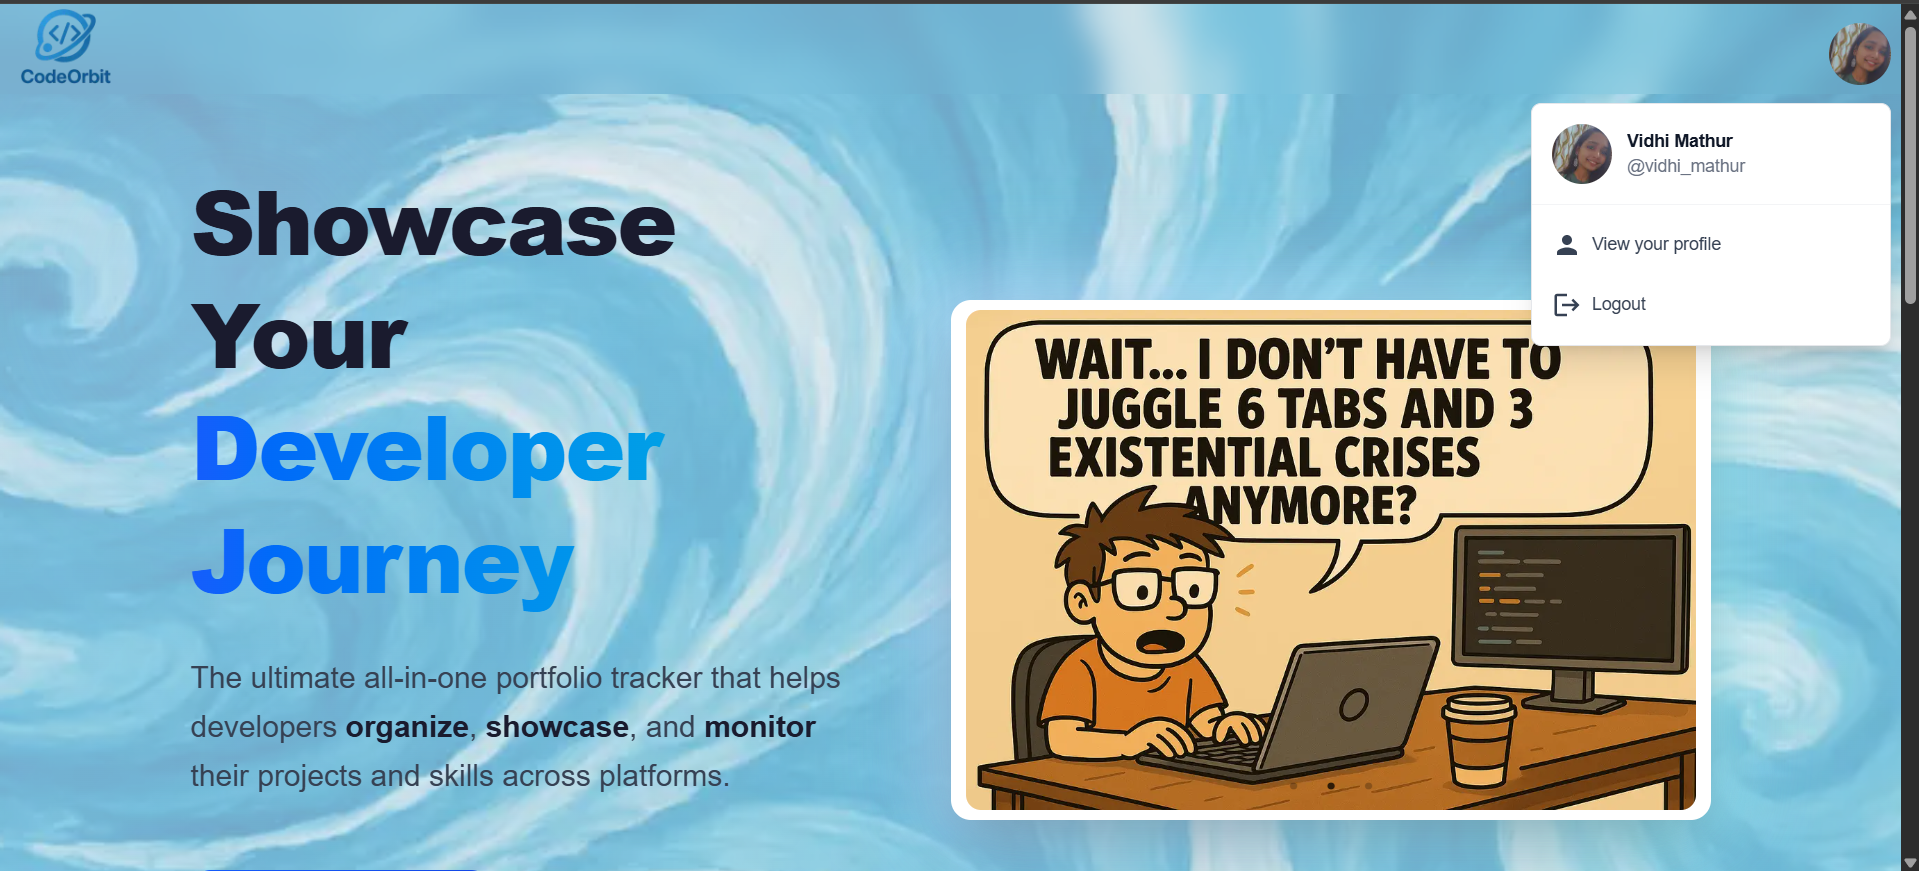
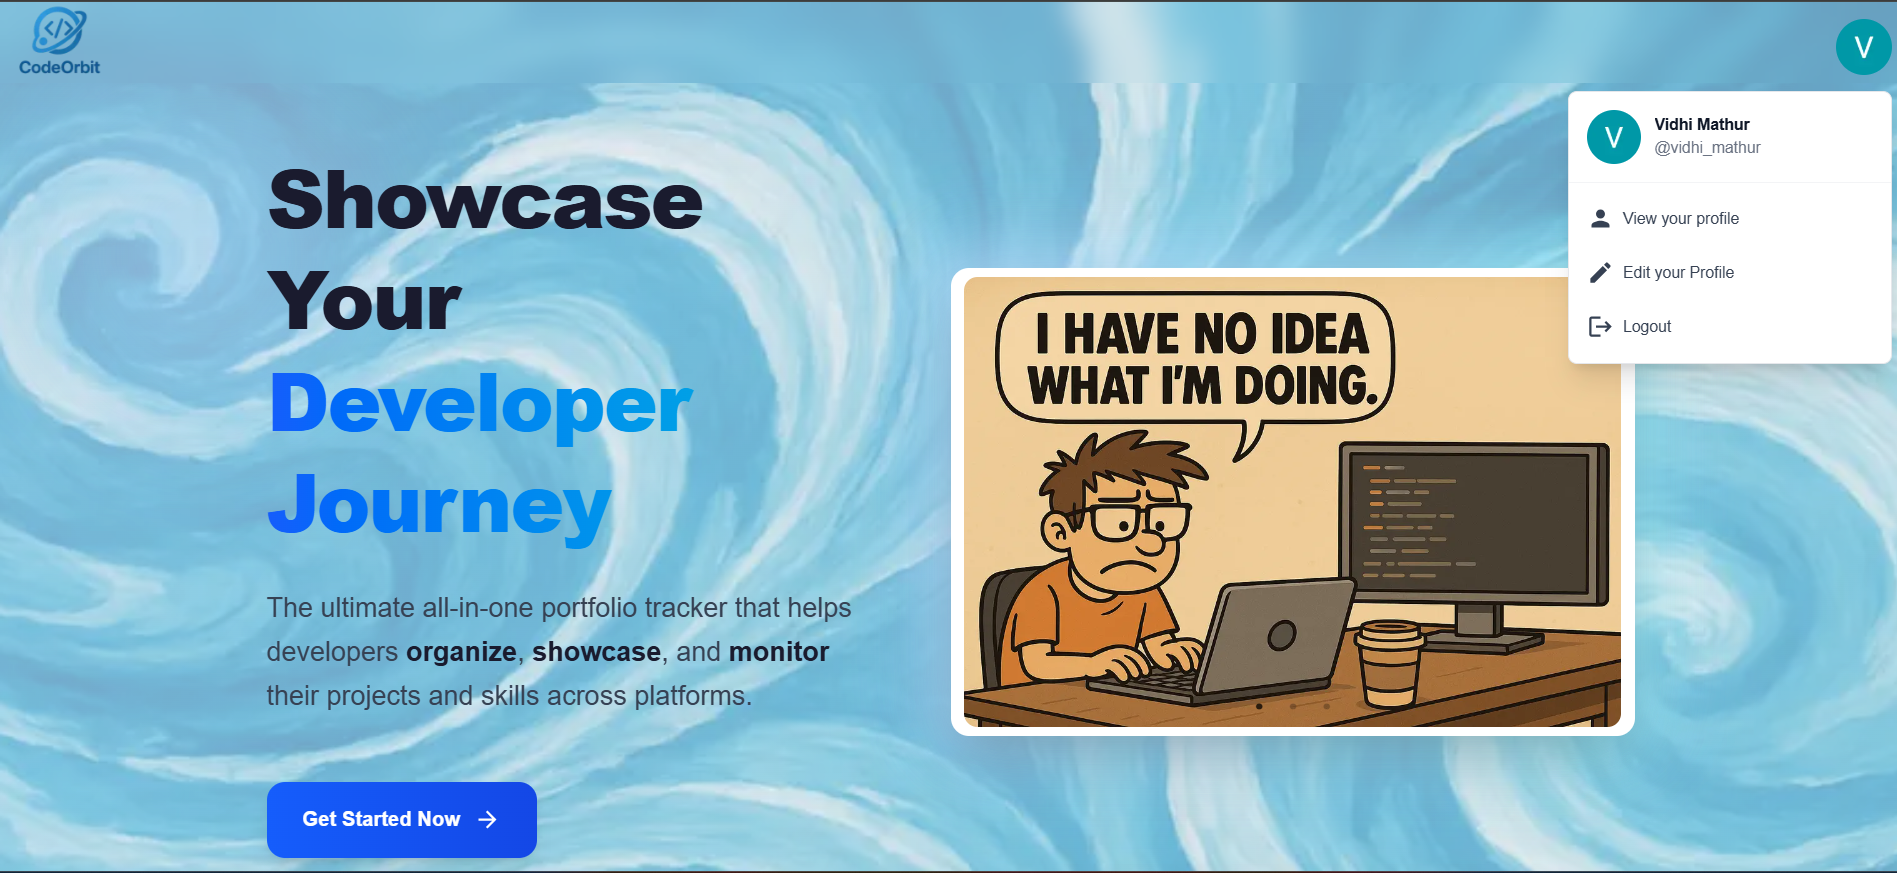
Updated skills and details

diff --git a/src/components/UI/Skills.js b/src/components/UI/Skills.js
@@ -3,15 +3,15 @@ import CSS from "../../assets/skills/CSS.svg"
 import Javascript from "../../assets/skills/Javascript.svg"
 import Bootstrap from "../../assets/skills/BootStrap.svg"
 import Java from "../../assets/skills/Java.svg"
-import ReactJS from "../../assets/skills/ReactJS.svg"
-import ReactRouterDom from "../../assets/skills/React-Router-Dom.svg"
+import ReactJs from "../../assets/skills/ReactJs.svg"
+import ReactRouterDom from "../../assets/skills/ReactRouterDom.svg"
 import Redux from "../../assets/skills/Redux.svg"
-import NextJS from "../../assets/skills/NextJS.svg"
-import MaterialUI from "../../assets/skills/Material-UI.svg"
-import TailwindCSS from "../../assets/skills/Tailwind-CSS.svg"
-import FramerMotion from "../../assets/skills/Framer-Motion.svg"
-import NodeJS from "../../assets/skills/NodeJS.svg"
-import ExpressJS from "../../assets/skills/ExpressJS.svg"
+import NextJs from "../../assets/skills/NextJs.svg"
+import MaterialUI from "../../assets/skills/MaterialUI.svg"
+import TailwindCSS from "../../assets/skills/TailwindCSS.svg"
+import FramerMotion from "../../assets/skills/FramerMotion.svg"
+import NodeJs from "../../assets/skills/NodeJs.svg"
+import ExpressJs from "../../assets/skills/ExpressJs.svg"
 import SocketIO from "../../assets/skills/SocketIO.svg"
 import MongoDB from "../../assets/skills/MongoDB.svg"
 import Git from "../../assets/skills/Git.svg"
@@ -22,47 +22,79 @@ import Prisma from "../../assets/skills/Prisma.svg"
 import Mongoose from "../../assets/skills/Mongoose.svg"
 import Shadcn from "../../assets/skills/Shadcn.svg"
 import Typescript from "../../assets/skills/Typescript.svg"
+import TanstackQuery from "../../assets/skills/TanstackQuery.svg"
+import Redis from "../../assets/skills/Redis.svg"
+import NextAuth from "../../assets/skills/NextAuth.svg"
+import Zod from "../../assets/skills/Zod.svg"
+import RestApi from "../../assets/skills/RestApi.svg"
+import GraphQL from "../../assets/skills/GraphQL.svg"
+import Jest from "../../assets/skills/Jest.svg"
+import RTL from "../../assets/skills/RTL.svg"
+import Supertest from "../../assets/skills/Supertest.svg"
+import Cypress from "../../assets/skills/Cypress.svg"
+import EC2 from "../../assets/skills/EC2.svg"
+import S3 from "../../assets/skills/S3.svg"
+import GitHubActions from "../../assets/skills/GitHubActions.svg"
+import Kubernetes from "../../assets/skills/Kubernetes.svg"
 import { motion } from "framer-motion"
 import { useInView } from "react-intersection-observer"
 import { elasticVariants } from "../../styles/specialEffects"
 
-const langauageAndScriptingSkills = [
+const langauageSkills = [
+    { name: 'TypeScript', icon: Typescript},
+    { name: 'JavaScript', icon: Javascript},
+    { name: 'Java', icon: Java},
     { name: 'HTML', icon: HTML },
     { name: 'CSS', icon: CSS},
-    { name: 'Javascript', icon: Javascript},
-    { name: 'Typecript', icon: Typescript},
-    { name: 'Java', icon: Java},
 ]
 
-const libraryAndFrameworkSkills = [
-    { name: 'Bootstrap', icon: Bootstrap},
-    { name: 'ReactJS', icon: ReactJS },
-    { name: 'React Router Dom', icon: ReactRouterDom },
+const frameworkAndLibrarySkills = [
+    { name: 'Next.js', icon: NextJs },
+    { name: 'React.js', icon: ReactJs },
+    { name: "TanStack Query", icon: TanstackQuery },
+    { name: 'Zod', icon: Zod },
+    { name: 'Tailwind CSS', icon: TailwindCSS },
+    { name: 'Shadcn', icon: Shadcn },
+    { name: 'Material UI', icon: MaterialUI },
     { name: 'Redux', icon: Redux },
-    { name: 'NextJS', icon: NextJS },
-    { name: 'Material UI', icon: MaterialUI},
-    { name: 'Shadcn', icon: Shadcn},
-    { name: 'Tailwind CSS', icon: TailwindCSS},
-    { name: 'Framer Motion', icon: FramerMotion },
+    { name: 'React Router DOM', icon: ReactRouterDom },
+    { name: 'Bootstrap', icon: Bootstrap },
+    { name: 'Framer Motion', icon: FramerMotion }
 ]
 
- const backendSkills = [
-    { name: 'NodeJS', icon: NodeJS},
-    { name: 'ExpressJS', icon: ExpressJS },
-    { name: 'Socket.io', icon: SocketIO },
+const backendSkills = [
+    { name: 'Node.js', icon: NodeJs },
+    { name: 'Express.js', icon: ExpressJs },
+    { name: 'REST APIs', icon: RestApi },
+    { name: 'NextAuth', icon: NextAuth },
+    { name: 'GraphQL', icon: GraphQL },
+    { name: 'Socket.io', icon: SocketIO }
 ]
 
- const databaseSkills = [
-    { name: 'MongoDB', icon: MongoDB},
-    { name: 'Mongoose', icon: Mongoose},
-    { name: 'PostgreSQL', icon: PostgreSQL},
-    { name: 'Prisma', icon: Prisma}
+const databaseSkills = [
+    { name: 'MongoDB', icon: MongoDB },
+    { name: 'Mongoose', icon: Mongoose },
+    { name: 'PostgreSQL', icon: PostgreSQL },
+    { name: 'Prisma', icon: Prisma },
+    { name: 'Redis', icon: Redis },
 ]
 
- const developerToolSkills = [
+const testingSkills = [
+  { name: "Jest", icon: Jest },
+  { name: "React Testing Library", icon: RTL },
+  { name: "Supertest", icon: Supertest },
+  { name: "Cypress", icon: Cypress }
+]
+
+
+const toolsAndDevOpsSkills = [
     { name: 'Version Control', icon: Git},
     { name: 'Postman', icon: Postman},
-    { name: 'Docker', icon: Docker}
+    { name: 'Docker', icon: Docker},
+    { name: "AWS (EC2)", icon: EC2 },
+    { name: "AWS (S3)", icon: S3 },
+    { name: "GitHub Actions", icon: GitHubActions },
+    { name: "Kubernetes (Basics)", icon: Kubernetes }
 ]
 
 export const Skills = () => {
@@ -70,11 +102,12 @@ export const Skills = () => {
         <div className="container mx-auto text-left">
         <h1 className="text-4xl sm:text-5xl md:text-6xl lg:text-7xl text-white font-semibold lg:mt-64 mt-40">Skills</h1>
             <div className="space-y-8 mt-8">
-                    <SkillSection title="Languages and Scripting" skills={langauageAndScriptingSkills} />
-                    <SkillSection title="Libraries and Frameworks" skills={libraryAndFrameworkSkills} />
+                    <SkillSection title="Languages" skills={langauageSkills} />
+                    <SkillSection title="Frameworks & Libraries" skills={frameworkAndLibrarySkills} />
                     <SkillSection title="Backend" skills={backendSkills} />
                     <SkillSection title="Databases" skills={databaseSkills} />
-                    <SkillSection title="Developer Tools" skills={developerToolSkills} />
+                    <SkillSection title="Testing" skills={testingSkills} />
+                    <SkillSection title="Tools & DevOps" skills={toolsAndDevOpsSkills} />
             </div>
         </div>
     )
@@ -87,10 +120,10 @@ const SkillSection = ({title, skills}) => {
     })
     return (
         <motion.div ref={ref}>
-        <p className="text-2xl sm:text:3xl md:text-4xl text-[#bdaee3] font-semibold mb-5 ">{title}</p>
+        <p className="text-2xl sm:text-3xl md:text-4xl text-[#bdaee3] font-semibold mb-5 ">{title}</p>
             <motion.div className="flex flex-wrap gap-5">
                 {skills.map((skill, index) => (
-                    <motion.span key={skill.name} className="bg-white text-xl font-semibold px-6 py-1.5 rounded flex items-center justify-center gap-2" initial="hidden" animate={inView? "visible": "hidden"} index={index} variants={elasticVariants} whileHover="hover"><img src={skill.icon} alt="alt" className="w-10 h-10 object-contain"/>{skill.name}</motion.span>
+                    <motion.span key={skill.name} className="bg-white text-xl font-semibold px-6 py-1.5 rounded flex items-center justify-center gap-2" initial="hidden" animate={inView? "visible": "hidden"} index={index} variants={elasticVariants} whileHover="hover"><img src={skill.icon} alt={skill.name} className="w-10 h-10 object-contain"/>{skill.name}</motion.span>
                 ))}
             </motion.div>
         </motion.div>

diff --git a/src/components/UI/ProjectInfo.js b/src/components/UI/ProjectInfo.js
@@ -11,19 +11,19 @@ import MyPlaceImg from "../../assets/projects/MyPlaces.png"
 const projectList = [
     {
         name: "CodeOrbit",
-        intro: "A developer portfolio tracker that visualizes coding activity and profiles",
-        techUsed: "Next.js, TypeScript, MongoDB, Tailwind CSS, NextAuth",
+        intro: "Developer analytics platform aggregating coding activity from GitHub, LeetCode, and Codeforces",
+        techUsed: "Next.js, TypeScript, MongoDB, TanStack Query, Redis (Upstash)",
         image: CodeOrbitImg,
     },
     {
-        name: "Eatwave",
-        intro: "A full-fledged food delivery application",
+        name: "EatWave",
+        intro: "Full-fledged food delivery platform with authentication, payments, and real-time order tracking",
         techUsed: "React.js, Node.js, Express.js, MongoDB, Tailwind CSS",
         image: EatWaveImg
     },
     {
         name: "MyPlaces",
-        intro: "Mock social media application to share geolocation based pictures",
+        intro: "Location-based photo sharing platform with geolocation and secure authentication",
         techUsed: "React.js, Node.js, Express.js, MongoDB, Tailwind CSS",
         image: MyPlaceImg
     }
@@ -59,7 +59,7 @@ export const ProjectInfo = () => {
             <h1 className="text-3xl sm:text-4xl md:text-5xl lg:text-6xl text-white font-semibold mt-12 sm:mt-24 md:mt-36 mb-8 sm:mb-16 md:mb-24">My Projects</h1>
             <div className="flex flex-col lg:flex-row justify-between items-start space-y-8 lg:space-y-0 lg:space-x-8">
                 <AnimatePresence mode="wait">
-                    <motion.div key={projectList[currIdx].name} initial={flipVariants.initial} animate={flipVariants.animate} exit={flipVariants.exit} transition={flipVariants.transition} style={flipVariants.style} className="bg-white dark:bg-[#1e1e1e] rounded-lg overflow-hidden shadow-lg w-full lg:w-6/12 h-auto lg:h-96" onClick={nextProjectHandler}>
+                    <motion.div key={projectList[currIdx].name} initial={flipVariants.initial} animate={flipVariants.animate} exit={flipVariants.exit} transition={flipVariants.transition} style={flipVariants.style} className="bg-white dark:bg-[#1e1e1e] rounded-lg overflow-hidden shadow-lg w-full lg:w-6/12 h-auto lg:h-[436px]" onClick={nextProjectHandler}>
                         <div className="bg-[#f0f0f0] dark:bg-[#323233] px-4 py-2 flex items-center justify-between">
                             <span className="text-[#333] dark:text-[#cccccc] font font-medium">{projectList[currIdx].name}.js</span>
                             <div className="flex space-x-2">
@@ -69,7 +69,7 @@ export const ProjectInfo = () => {
                             </div>
                         </div>
                         <div className="p-6 font-mono text-sm">
-                            <p className="text-green-800 dark:text-green-300 mb-2">//Click to see next, more details in "/projects"!</p>
+                            <p className="text-green-800 dark:text-green-300 mb-2">{`// Click to see next project — full details in "/projects"`}</p>
                             <p className="text-[#0366d6] dark:text-[#569cd6] mb-2">
                                 const <span className="text-[#005cc5] dark:text-[#4fc1ff]">{projectList[currIdx].name}</span> = <span className="text-[#005cc5] dark:text-[#ffbd44]">{'{'}</span>
                             </p>

diff --git a/src/components/Pages/ProjectsPage.js b/src/components/Pages/ProjectsPage.js
@@ -14,10 +14,10 @@ const codeOrbitImages = importAll(require.context('../../assets/projects/CodeOrb
 const projects = [
     {
     title: "CodeOrbit",
-    description: "Developer Portfolio Tracker",
+    description: "Developer Analytics Platform",
     date: "May 2025 - Present",
-    details: "A personalized portfolio tracker tailored for developers, aggregating data from coding platforms like GitHub and LeetCode. It visualizes developer activity with insightful dashboards, supports OAuth login, and uses both REST and GraphQL APIs for optimized data handling. Designed to showcase a developer’s true coding footprint in a clean, visual format.",
-    technologies: [ "Next.js", "TypeScript", "MongoDB", "Tailwind CSS", "NextAuth", "Bcrytjs", "GraphQL", "REST API"],
+    details: "A performance-optimized developer analytics platform that aggregates and visualizes coding activity from platforms like GitHub, LeetCode, and Codeforces into a unified developer profile. The platform integrates multiple external APIs to fetch developer metrics, submission calendars, and repository activity. It implements layered caching using Next.js server cache and TanStack React Query, along with year-based lazy loading to reduce API fan-out and improve performance. Additional infrastructure includes Redis-based rate limiting for controlled refresh operations and secure OAuth authentication.",
+    technologies: ["Next.js", "TypeScript", "MongoDB", "Tailwind CSS", "NextAuth", "TanStack Query", "Redis (Upstash)", "GraphQL", "REST API"],
     images: codeOrbitImages,
     github: "https://github.com/Vidhi-Mathur/CodeOrbit",
     live: "https://codeorbit-coral.vercel.app/",
@@ -26,7 +26,7 @@ const projects = [
   {
     title: "EatWave",
     description: "Food Ordering Application",
-    date: "May 2024 - Present",
+    date: "May 2024 - Oct 2024",
     details: "A full-fledged, responsive MERN based food delivery application, which streamlines restaurant, menu, cart, and order management. The application is designed with both the restaurant and consumer perspectives in mind. Users can add their own restaurants, complete with menus, cuisine details, and more. Consumers can view restaurant information, including photos, reviews, and menus, and track their orders in real-time. After completing an order, they can post reviews as well. This is SPA and incorporates optimization techniques like debouncing, memoization, and lazy loading.",
     technologies: ["React", "Node.js", "Express", "MongoDB", "Tailwind CSS", "JWT", "Bcryptjs", "Razorpay", "Multer", "Cloudinary", "Socket.io"],
     images: eatWaveImages,

diff --git a/src/components/Pages/AboutPage.js b/src/components/Pages/AboutPage.js
@@ -19,10 +19,13 @@ export const AboutPage = () => {
                     <motion.div className="md:w-1/2 mb-8 md:mb-0" initial={{ x: -100, opacity: 0 }} animate={{ x: 0, opacity: 1 }} transition={{ duration: 0.8, ease: "easeOut" }}>
                     <h1 className="text-4xl md:text-5xl font-bold mb-6 bg-clip-text text-transparent bg-gradient-to-r from-purple-400 to-pink-600">Glad we met!</h1>
                         <p className="text-lg leading-relaxed">
-                            Hi, I'm Vidhi—an enthusiastic web developer with a passion for building engaging and responsive applications. I combine technical expertise with creative problem-solving to deliver efficient, secure, and impactful digital solutions.
+                        Hi, I'm Vidhi — a full-stack web developer passionate about building scalable and user-focused web applications. I enjoy working across the stack, combining clean frontend interfaces with efficient backend systems to create reliable and maintainable software.
                         </p>
                         <p className="text-lg leading-relaxed">
-                            My recent projects demonstrate my proficiency in JavaScript, React.js, Node.js, and more.
+                        I primarily work with modern technologies like Next.js, Node.js, and TypeScript, and I enjoy exploring system design concepts such as API architecture, performance optimization, and scalable application structure.
+                        </p>
+                        <p className="text-lg leading-relaxed">
+                            Alongside development, I enjoy strengthening my problem solving skills through data structures and algorithms, and currently hold the <span className="text-purple-400 font-semibold">LeetCode Knight</span> badge with a peak contest rating of <span className="text-purple-400 font-semibold">1950</span>.
                         </p>
                         <motion.a whileHover={{ scale: 1.1, backgroundColor: "#8B5CF6" }} href="https://drive.google.com/file/d/1O3Ae16s-cCD-zbGtgbgcxItU0JjOvxSz/view?usp=drive_link" className="mt-6 cursor-pointer bg-purple-600 text-xl font-semibold py-1.5 rounded flex items-center justify-center w-48" target="_blank" rel="noopener noreferrer">
                             View Resume

diff --git a/src/components/Pages/HomePage.js b/src/components/Pages/HomePage.js
@@ -16,8 +16,8 @@ export const HomePage = () => {
     return (
         <div className="flex flex-col justify-center items-center min-h-screen text-center sm:pl-8 md:pl-16 lg:pl-20 pt-20 sm:pt-24 md:pt-28 lg:pt-36">
             <motion.h1 className="text-5xl sm:text-6xl md:text-7xl lg:text-9xl text-white font-bold mb-4" animate={shimmerVariants.animate} transition={shimmerVariants.transition} style={shimmerVariants.style}>Vidhi Mathur</motion.h1>
-            <motion.p className="text-3xl sm:text-3xl md:text-4xl  text-[#9374e8] opacity-80" animate={bounceVariants.animate} transition={bounceVariants.transition}>A FULLSTACK DEVELOPER</motion.p>
-            {isVisible && <TypewriterText text="Transforming ideas into intuitive digital experience through code and creativity" />}
+            <motion.p className="text-3xl sm:text-3xl md:text-4xl  text-[#9374e8] opacity-80" animate={bounceVariants.animate} transition={bounceVariants.transition}>Full-Stack Developer | Building Performance-Optimized Applications</motion.p>
+            {isVisible && <TypewriterText text="Building scalable web platforms with modern technologies like Next.js, TypeScript, and distributed APIs." />}
             <ScrollArrow />
             <div id="skills">
                 <Skills />
